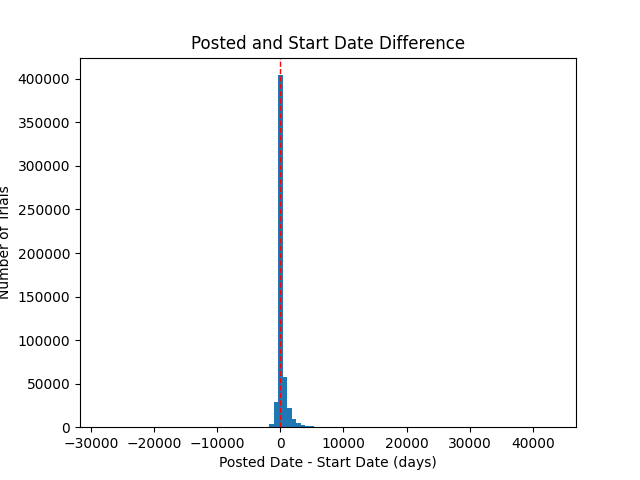
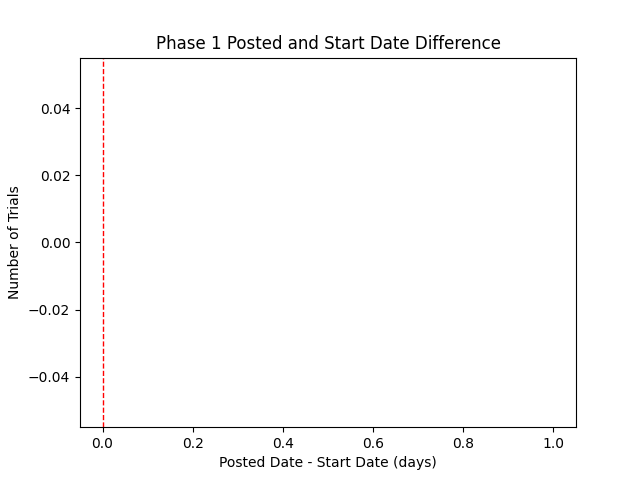
Stratifying by phase for time start to time posted

diff --git a/phase_stratify_plots.py b/phase_stratify_plots.py
@@ -32,7 +32,7 @@ def plot_hist(data, column, filename, bins=100, xlabel='', ylabel='', title='', 
 	plt.savefig(filename)
 	plt.close()
 
-df = readTable(aact, 'studies', ['nct_id','study_first_posted_date', 'study_first_posted_date_type', 'start_date', 'start_date_type'])
+df = readTable(aact, 'studies', ['nct_id','study_first_posted_date', 'study_first_posted_date_type', 'start_date', 'start_date_type', 'phase'])
 for index, row in df.iterrows():
 	nctid = row['nct_id']
 
@@ -40,18 +40,19 @@ df['start_date'] = pd.to_datetime(df['start_date'], errors='coerce')
 df['study_first_posted_date'] = pd.to_datetime(df['study_first_posted_date'], errors='coerce')
 
 # Drop rows w/ na
-new_df = df.dropna(subset=['start_date', 'study_first_posted_date'])
+new_df = df.dropna(subset=['start_date', 'study_first_posted_date', 'phase'])
+new_df.loc[:,'diff_days'] = (new_df['study_first_posted_date'] - new_df['start_date']).dt.days
 
-plt.figure()
-new_df.plot.scatter(
-	x='start_date', 
-	y='study_first_posted_date',
-	alpha=0.02, 
-	s=8,
-	title='Start vs. Posted Date')
-plt.plot(new_df['start_date'], new_df['start_date'], 'r--', label='start = posted')
+phase1_df = new_df[new_df['phase'] == 'PHASE1']
 
-plt.savefig("dates_plot.png", dpi=600)
+plot_hist(
+    phase1_df,
+    column='diff_days',
+    filename='phase1_diff.png',
+    xlabel='Posted Date - Start Date (days)',
+    ylabel='Number of Trials',
+    title='Phase 1 Posted and Start Date Difference'
+)
 
-latest_start = new_df['start_date'].max()
-print("Latest start date:", latest_start)
+
+# future work.... continue for other phases and get rid of extreme outliers and put in log
